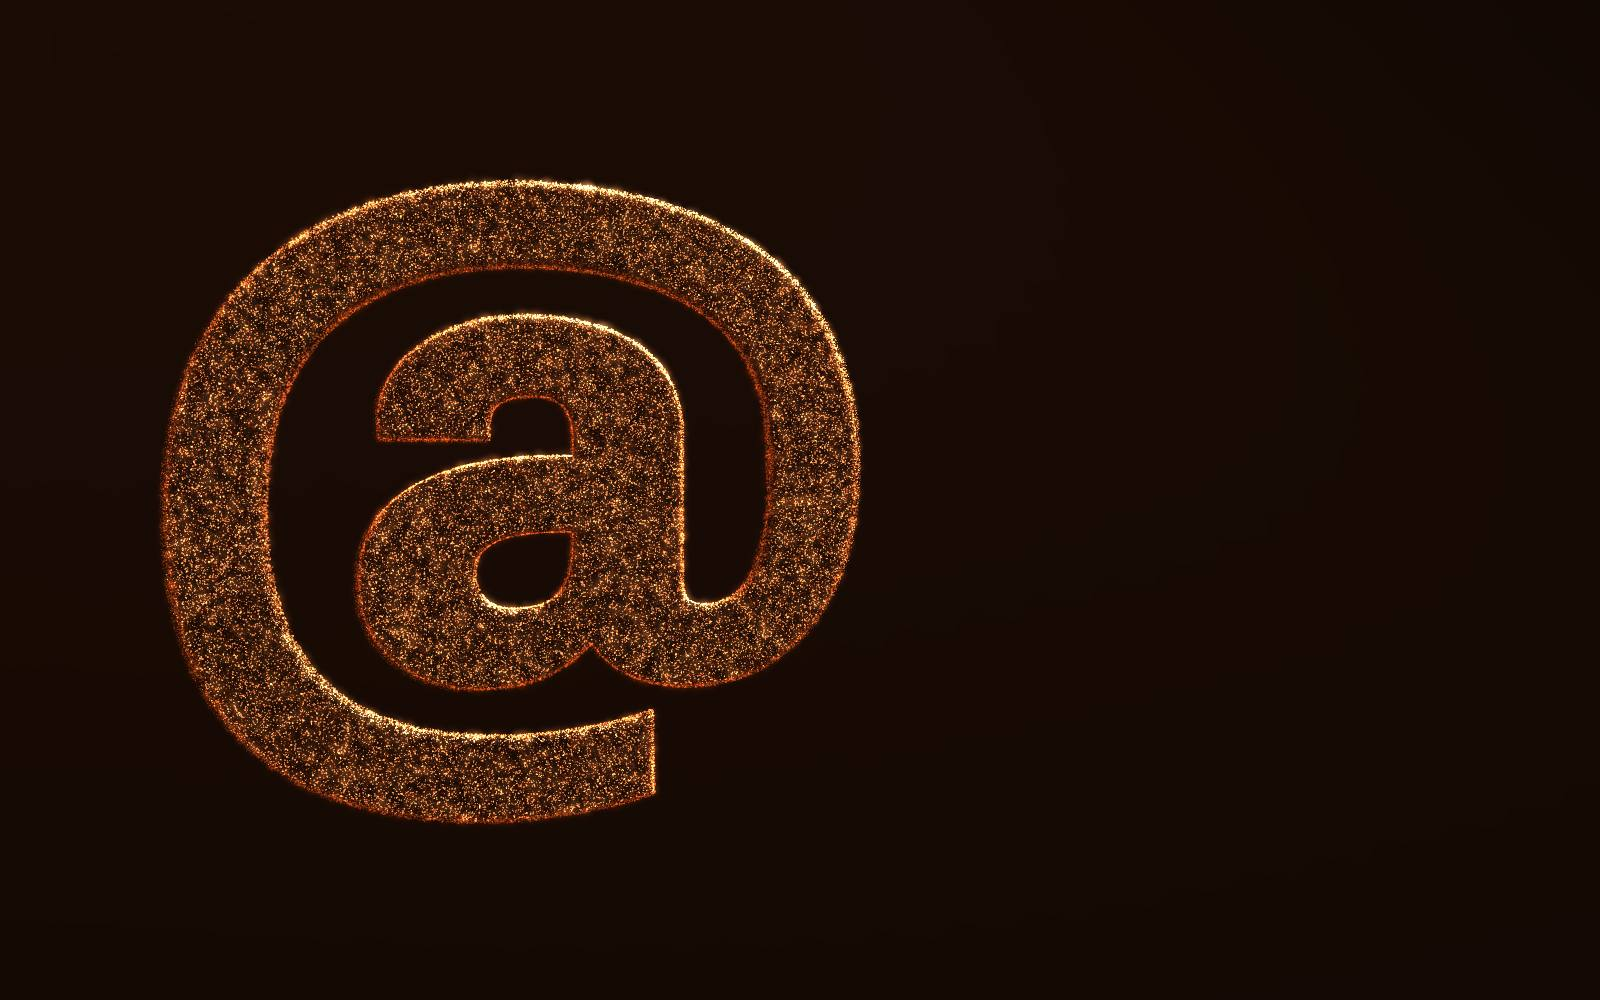
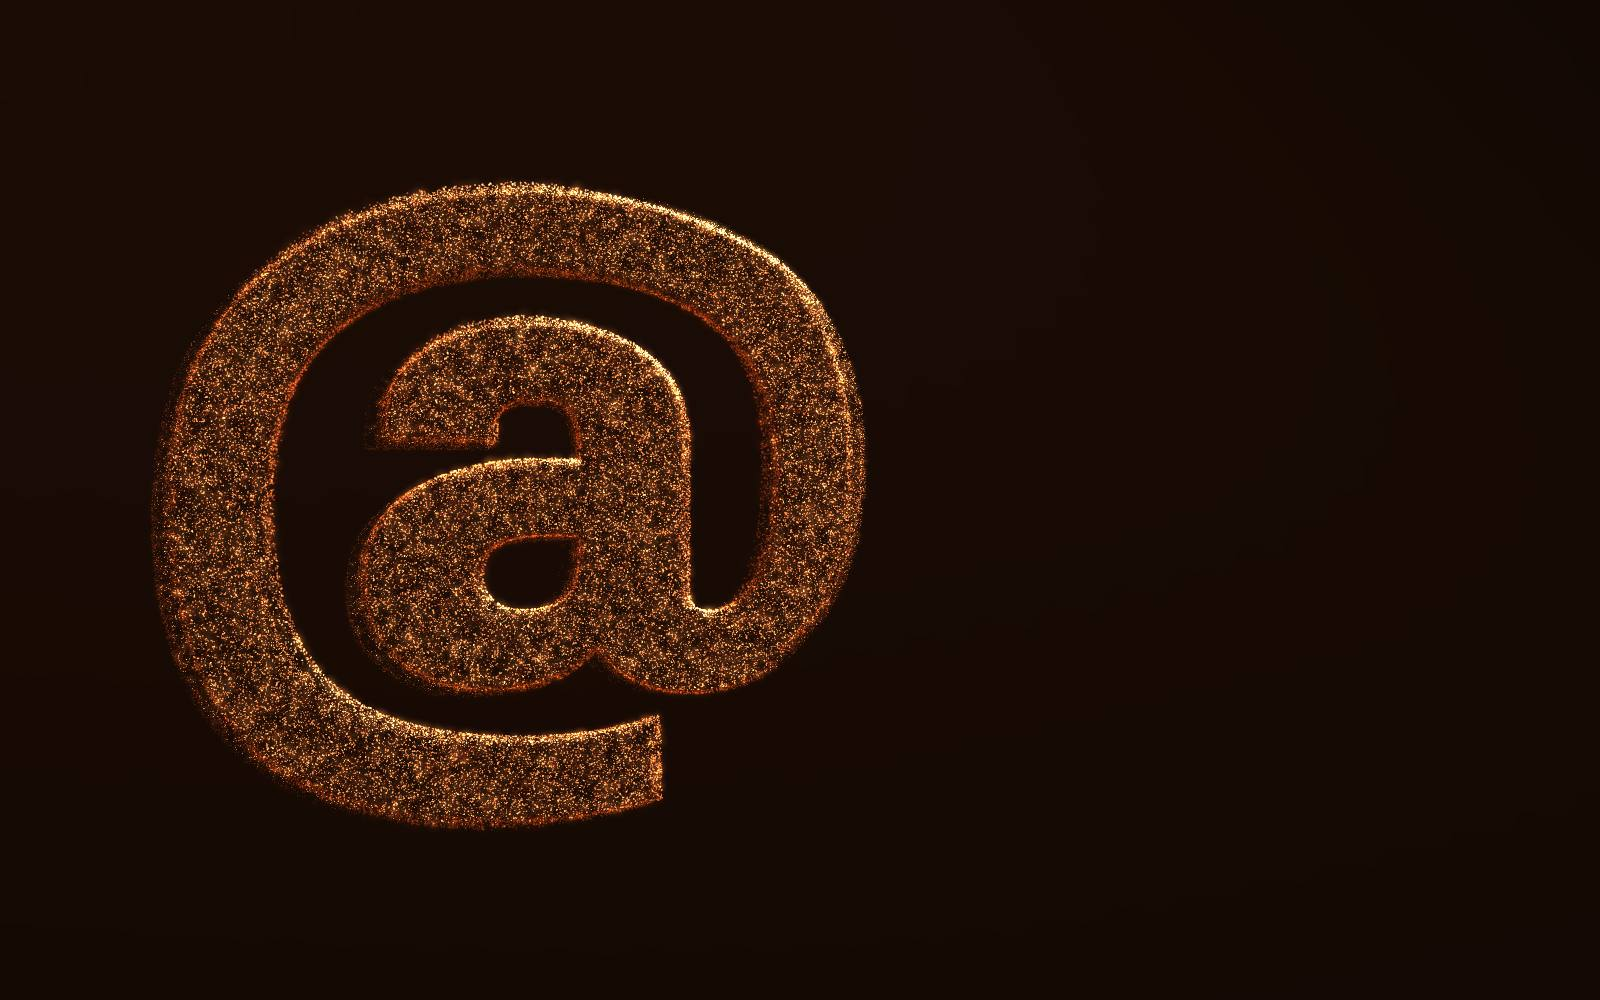
fix: keep text readable during rebuilds and give the form a molten pour

Changed region(s): [[0.0938, 0.155, 0.5625, 0.837]]

diff --git a/components/entrance-section.tsx b/components/entrance-section.tsx
@@ -12,17 +12,17 @@ export function EntranceSection() {
       <p className="mt-2 text-xl text-quiet">{profile.role}</p>
       <p className="mt-5 text-lg leading-snug">{hero.lead}</p>
       <p className="mt-3 text-quiet">{hero.detail}</p>
-      <div className="mt-6 flex flex-wrap items-center gap-2">
-        <LinkButton href={profile.resume} download={profile.resumeFileName}>
+      <div className="mt-6 flex items-center gap-1 sm:gap-2">
+        <LinkButton href={profile.resume} download={profile.resumeFileName} className="px-4 whitespace-nowrap sm:px-5">
           Download CV
         </LinkButton>
-        <LinkButton href={`mailto:${profile.email}`} variant="outline">
+        <LinkButton href={`mailto:${profile.email}`} variant="outline" className="px-4 whitespace-nowrap sm:px-5">
           Email me
         </LinkButton>
-        <a href={profile.github} target="_blank" rel="noopener noreferrer" aria-label="GitHub" className="grid h-11 w-11 place-items-center text-quiet transition-colors hover:text-amber">
+        <a href={profile.github} target="_blank" rel="noopener noreferrer" aria-label="GitHub" className="grid h-11 w-10 shrink-0 place-items-center text-quiet transition-colors hover:text-amber">
           <Github className="h-5 w-5" />
         </a>
-        <a href={profile.linkedin} target="_blank" rel="noopener noreferrer" aria-label="LinkedIn" className="grid h-11 w-11 place-items-center text-quiet transition-colors hover:text-amber">
+        <a href={profile.linkedin} target="_blank" rel="noopener noreferrer" aria-label="LinkedIn" className="grid h-11 w-10 shrink-0 place-items-center text-quiet transition-colors hover:text-amber">
           <Linkedin className="h-5 w-5" />
         </a>
       </div>

diff --git a/components/gallery/gallery-canvas.tsx b/components/gallery/gallery-canvas.tsx
@@ -181,7 +181,7 @@ function Form({ tier, onFallback }: { tier: Tier; onFallback: () => void }) {
     const b = formLayout(stops[to], size.width, size.height, phone);
     form.position.set(THREE.MathUtils.lerp(a.x, b.x, mix), THREE.MathUtils.lerp(a.y, b.y, mix), 0);
     form.scale.setScalar(THREE.MathUtils.lerp(a.scale, b.scale, mix));
-    const sway = from === 0 && mix < 0.05 ? 0.06 : 0.3;
+    const sway = THREE.MathUtils.lerp(0.06, 0.3, THREE.MathUtils.smoothstep(position.current, 0, 1));
     form.rotation.y = Math.sin(state.clock.elapsedTime * 0.3) * sway + tilt.current.x * 0.5;
     form.rotation.x = tilt.current.y * 0.3;
 
@@ -194,11 +194,15 @@ function Form({ tier, onFallback }: { tier: Tier; onFallback: () => void }) {
     uniforms.uBurst.value = burst.current;
     uniforms.uPointer.value.lerp(pointerGoal.current, 1 - Math.exp(-9 * delta));
 
-    // On phones words scroll across the form, so it steps back while they do.
-    let dim = 1;
+    // Words must stay readable. On phones they scroll across the form, so it
+    // steps back from just after a section starts until just before the next.
+    // On desktop the form only reaches the words while it travels.
+    let dim = 1 - Math.sin(Math.PI * mix) * 0.8;
     if (phone) {
-      const anchor = anchors.current[Math.round(position.current)] ?? 0;
-      dim = scroll > anchor + viewport * 0.14 ? 0.16 : 1;
+      const list = anchors.current;
+      let current = 0;
+      while (current < list.length - 1 && scroll >= list[current + 1] - viewport * 0.05) current++;
+      dim = scroll > list[current] + viewport * 0.14 ? 0.16 : 1;
     }
     uniforms.uDim.value = THREE.MathUtils.damp(uniforms.uDim.value, dim, 6, delta);
   });

diff --git a/components/gallery/form-material.ts b/components/gallery/form-material.ts
@@ -33,7 +33,12 @@ const vertexShader = /* glsl */ `
 
     vec2 f = liquidFlow(p * 1.2 + aSeed, uTime * 0.35);
     vec2 g = liquidFlow(p.zxy * 1.2 - aSeed, uTime * 0.3);
-    p += vec3(f.x, g.y, f.y * g.x) * (0.008 + travel * 0.6);
+    // At rest the surface creeps like molten metal. In transit the form draws
+    // in and swirls round its axis, so shapes pour instead of scattering.
+    p += vec3(f.x, g.y, f.y * g.x) * (0.03 + travel * 0.32);
+    float swirl = travel * (1.3 + aSeed * 1.8);
+    p.xz = mat2(cos(swirl), -sin(swirl), sin(swirl), cos(swirl)) * p.xz;
+    p.xy *= 1.0 - travel * 0.5;
 
     vec4 world = modelMatrix * vec4(p, 1.0);
 
@@ -91,7 +96,7 @@ export function createFormMaterial(side: number, pixelRatio: number) {
       uDim: { value: 1 },
       uAlpha: { value: 1 },
       uSide: { value: side },
-      uSize: { value: (side > 200 ? 21 : 30) * pixelRatio },
+      uSize: { value: (side > 200 ? 21 : 19) * pixelRatio },
       uPointer: { value: new THREE.Vector3(99, 99, 0) },
       uOrigin: { value: new THREE.Vector3() },
     },
@@ -102,7 +107,7 @@ export function createFormMaterial(side: number, pixelRatio: number) {
   const glow = material.clone();
   glow.uniforms = {
     ...material.uniforms,
-    uAlpha: { value: 0.07 },
+    uAlpha: { value: side > 200 ? 0.07 : 0.035 },
     uSize: { value: material.uniforms.uSize.value * 7 },
   };
 

diff --git a/lib/gallery.ts b/lib/gallery.ts
@@ -30,7 +30,7 @@ export const CAMERA_FOV = 35;
 export function formLayout(stop: Stop, width: number, height: number, phone: boolean) {
   const visibleHeight = 2 * Math.tan((CAMERA_FOV / 2) * (Math.PI / 180)) * CAMERA_DISTANCE;
   const visibleWidth = visibleHeight * (width / height);
-  if (phone) return { x: 0, y: visibleHeight * 0.24, scale: visibleWidth * 0.4 };
+  if (phone) return { x: 0, y: visibleHeight * 0.24, scale: visibleWidth * (stop.id === "top" ? 0.4 : 0.32) };
   if (stop.id === "top") return { x: 0, y: visibleHeight * 0.2, scale: Math.min(visibleWidth * 0.44, visibleHeight * 0.72) };
   const gutter = Math.max(16, Math.min(56, width * 0.04));
   const textEdge = stop.width * 16 + gutter;

diff --git a/app/globals.css b/app/globals.css
@@ -116,7 +116,8 @@
   justify-content: flex-end;
   padding-bottom: 2.5rem;
 }
-html[data-stage="ready"]:not([data-view="list"]):not([data-tier="still"]) .hero-name {
+html[data-stage="ready"]:not([data-view="list"]) .hero-name,
+html[data-tier="still"]:not([data-view="list"]) .hero-name {
   position: absolute;
   width: 1px;
   height: 1px;
